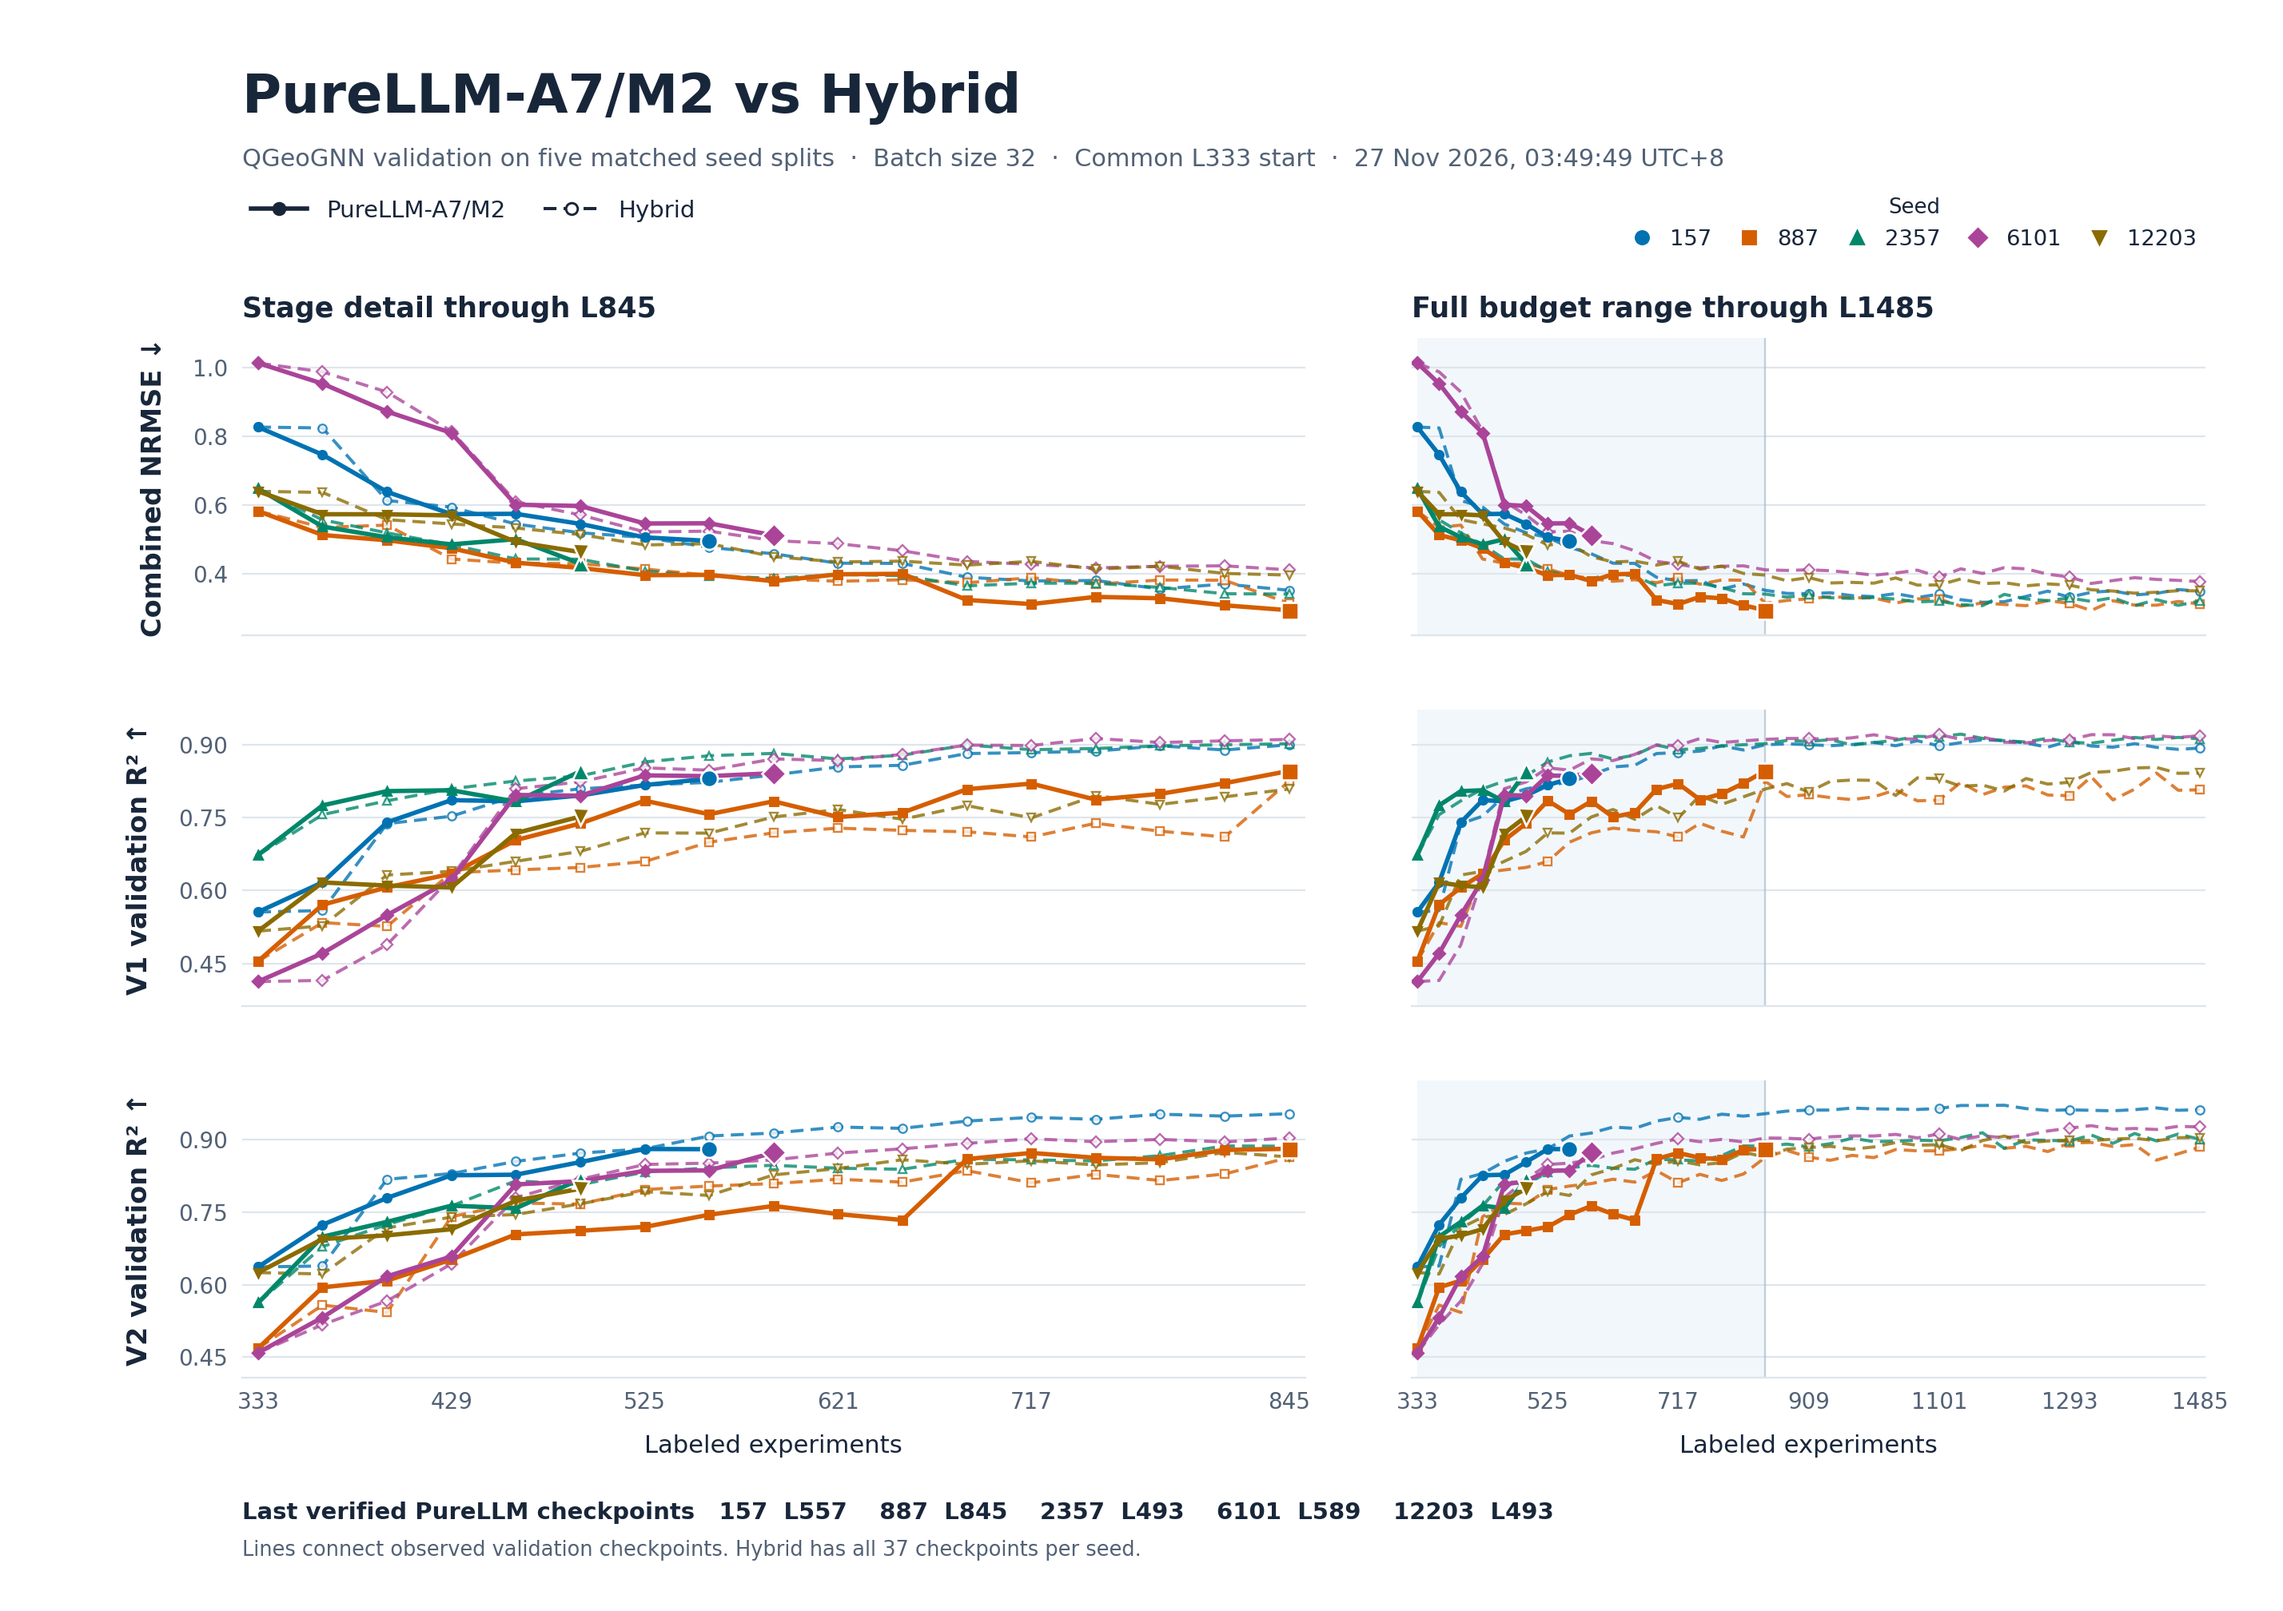
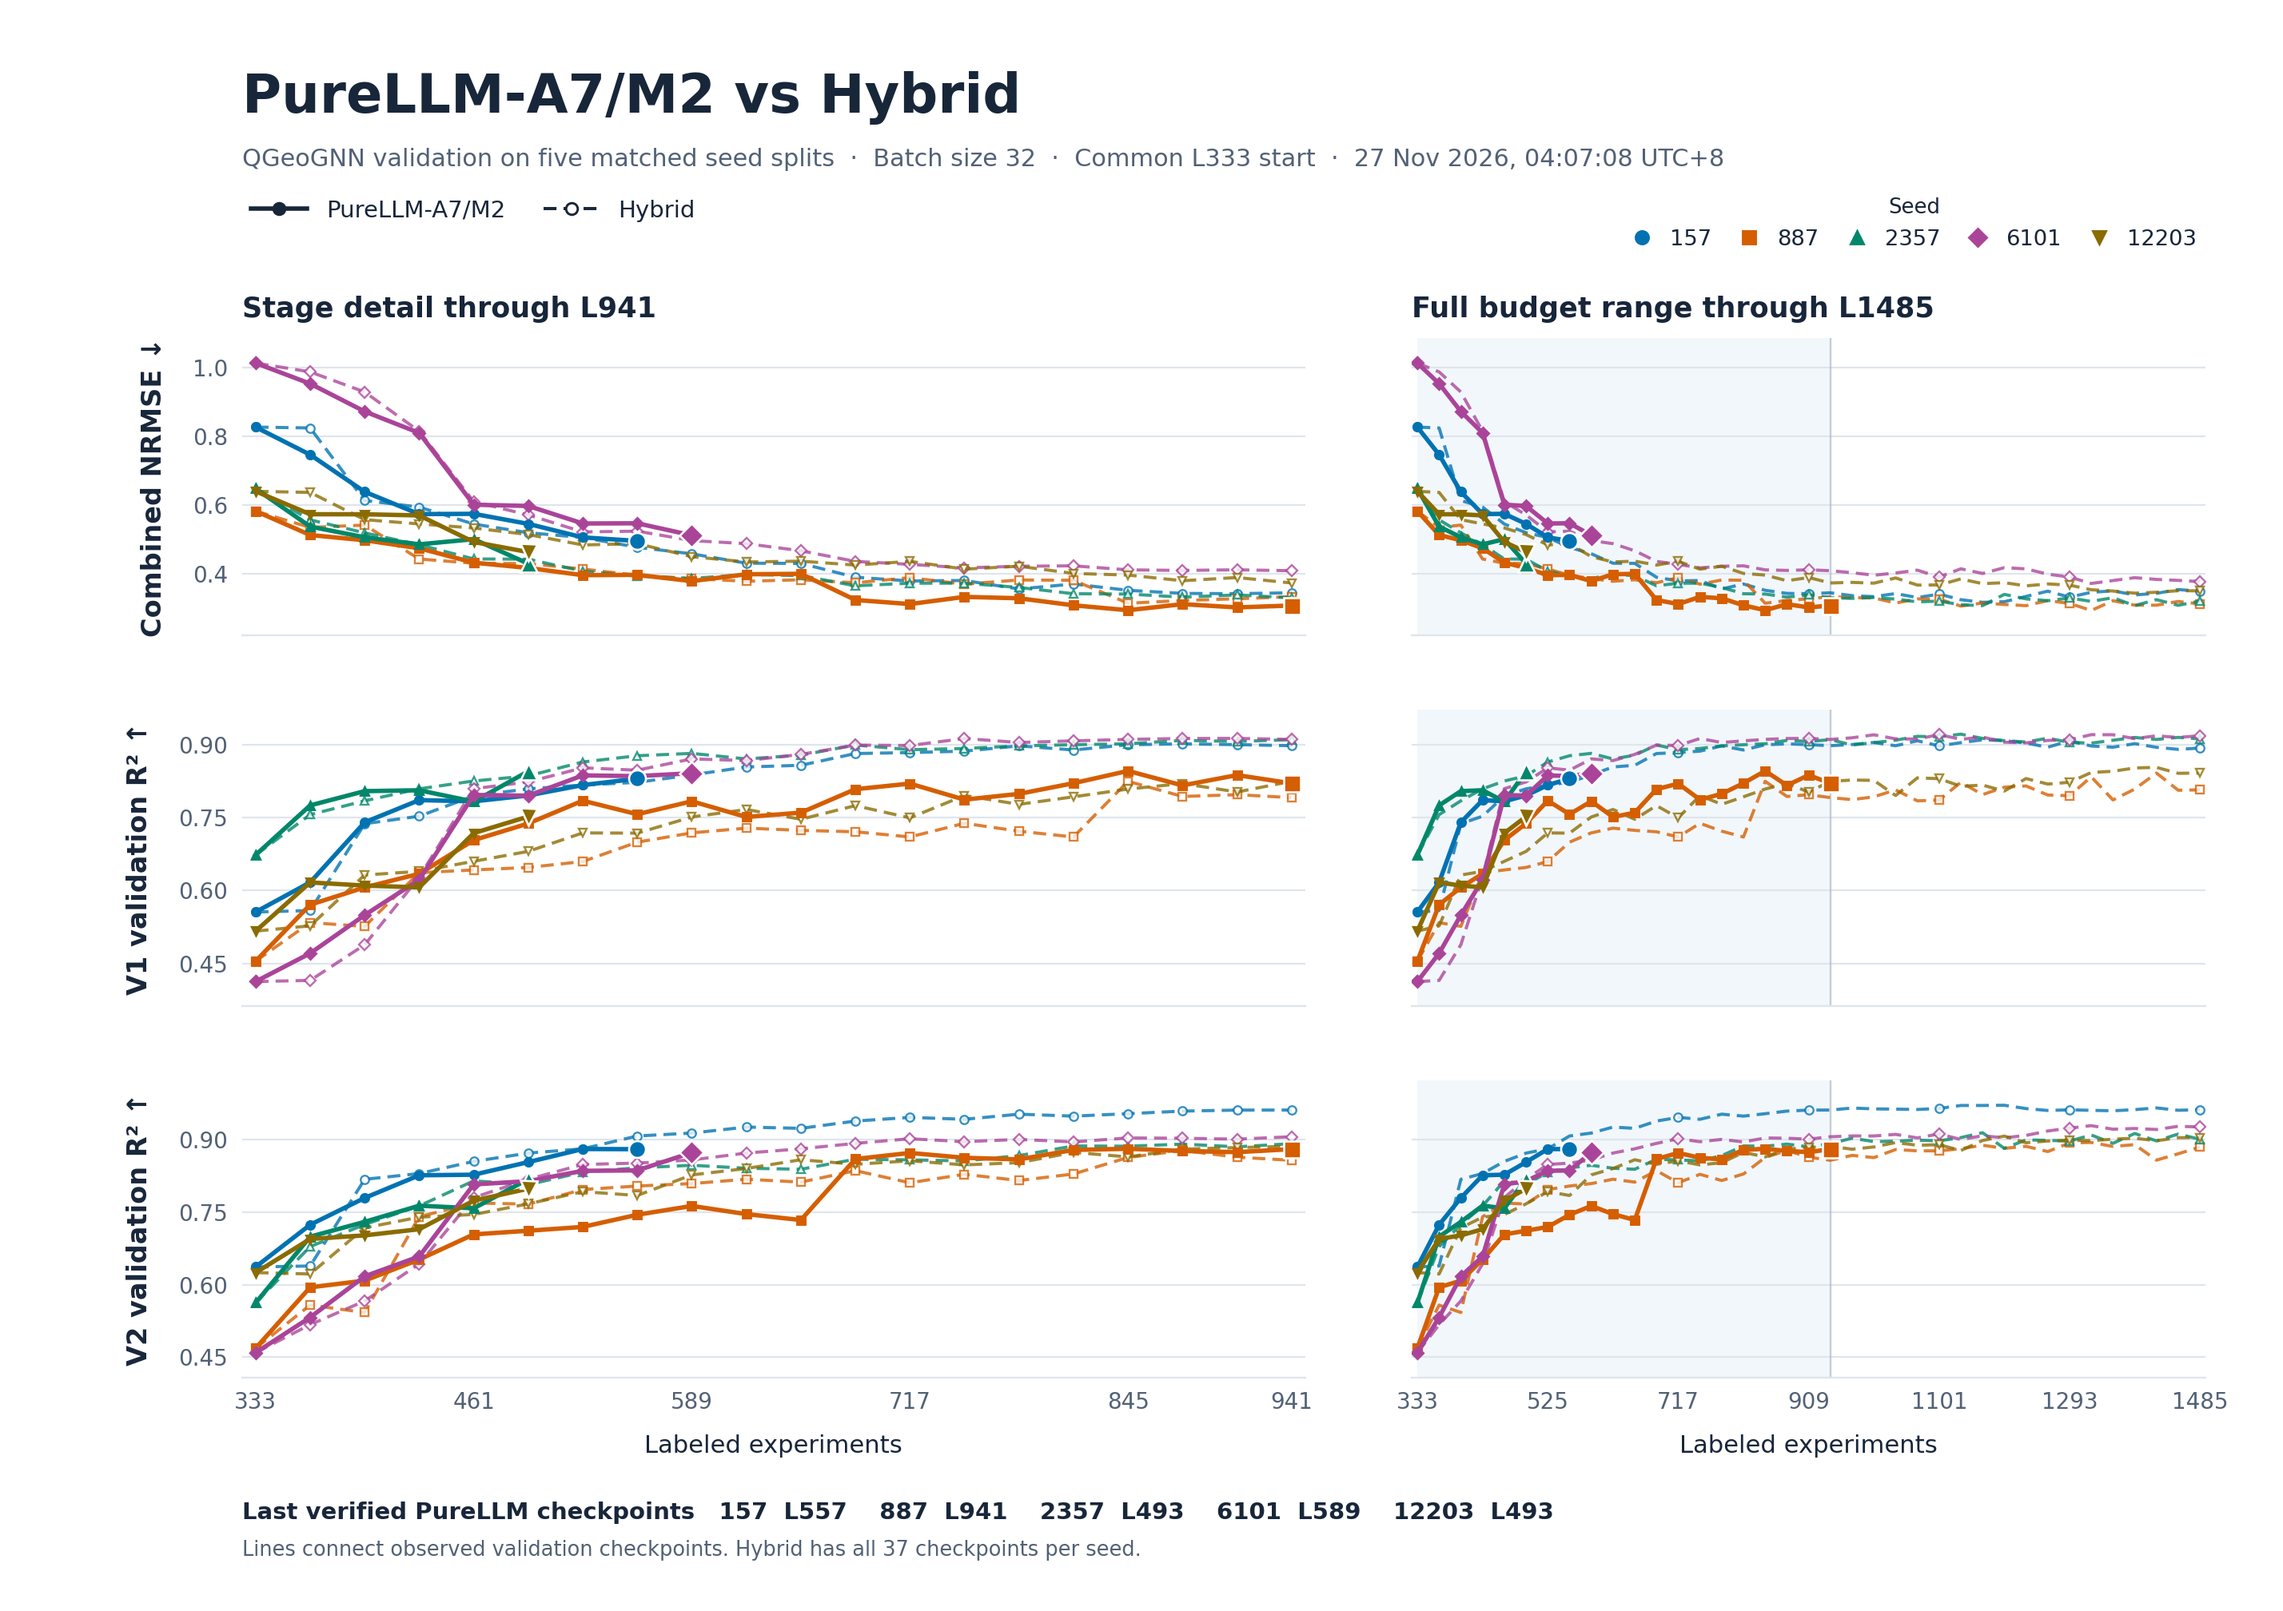
Refresh paired stage comparison through seed 887 L941

diff --git a/reports/purellm_a7_stage_20261126/README.md b/reports/purellm_a7_stage_20261126/README.md
@@ -1,8 +1,8 @@
 # PureLLM-A7/M2 与 Hybrid 五 seed 阶段对比
 
-验证数据快照的核验时间为北京时间 2026 年 11 月 27 日 03:49:49。PureLLM 已完成 41 轮 CUDA 训练，记录了 1,312 条冻结选点及其理由。Hybrid 为正式 CUDA Uncertainty + Diversity Hybrid32，五条轨迹均已到 L1485。
+验证数据快照的核验时间为北京时间 2026 年 11 月 27 日 04:07:08。PureLLM 已完成 44 轮 CUDA 训练，记录了 1,408 条冻结选点及其理由。Hybrid 为正式 CUDA Uncertainty + Diversity Hybrid32，五条轨迹均已到 L1485。
 
-两种方法在每个 seed 上共用同一份 L333 CUDA checkpoint、验证划分和 QGeoGNN 训练协议，每轮新增 32 个实验。图中数值来自各预算选定 checkpoint 的验证记录。左侧放大截至 L845 的阶段性曲线，右侧展示完整预算范围。实线止于各 seed 最后一次已完成的 PureLLM 训练。颜色和标记配对同一个 seed。 [L333 配对核验](paired_l333_anchor_receipts.json) · [Hybrid 正式归档](../eit_cuda_three_methods_20261124/README.md)
+两种方法在每个 seed 上共用同一份 L333 CUDA checkpoint、验证划分和 QGeoGNN 训练协议，每轮新增 32 个实验。图中数值来自各预算选定 checkpoint 的验证记录。左侧放大截至 L941 的阶段性曲线，右侧展示完整预算范围。实线止于各 seed 最后一次已完成的 PureLLM 训练。颜色和标记配对同一个 seed。 [L333 配对核验](paired_l333_anchor_receipts.json) · [Hybrid 正式归档](../eit_cuda_three_methods_20261124/README.md)
 
 ![PureLLM 与 Hybrid 的五 seed 验证曲线](purellm_vs_hybrid_stage.png)
 
@@ -11,7 +11,7 @@
 | Seed | PureLLM 已完成轮次 | 最新预算 | PureLLM 验证 NRMSE | 同预算 Hybrid NRMSE | 差值 |
 |---:|---:|---:|---:|---:|---:|
 | 157 | 7 | L557 | 0.4944 | 0.4759 | +0.0185 |
-| 887 | 16 | L845 | 0.2927 | 0.3130 | -0.0203 |
+| 887 | 19 | L941 | 0.3064 | 0.3320 | -0.0256 |
 | 2357 | 5 | L493 | 0.4282 | 0.4412 | -0.0130 |
 | 6101 | 8 | L589 | 0.5108 | 0.4954 | +0.0154 |
 | 12203 | 5 | L493 | 0.4620 | 0.5130 | -0.0510 |
@@ -24,9 +24,11 @@
 
 887 的 R14 和 R15 首答均通过正式 A7 校验，各冻结了 32 个选点并完成 CUDA 训练。R14 至 L813 的验证 NRMSE 为 **0.3070**，R15 至 L845 为 **0.2927**。两轮的服务商终态均报告 `gpt-6.2-astra / xhigh`。
 
+887 的 R16 经一次付费局部纠错修正了第 26 个选点的对照关系和理由，保留原来的 32 个候选及顺序。R17、R18 首答均通过正式 A7 校验。三轮均已完成训练，最近的 L941 验证 NRMSE 为 **0.3064**。
+
 ## 数据和选点
 
-- [PureLLM 验证指标](purellm_validation_curves.csv) 包含 5 个初始检查点和 41 个后续训练点。`round=0` 对应共享 L333，`acquisition_round=0` 对应首次选点和 L365 训练。 CSV 保留每个指标文件和 checkpoint 的摘要。 [PureLLM 逐文件清单](purellm_export_manifest.json)
+- [PureLLM 验证指标](purellm_validation_curves.csv) 包含 5 个初始检查点和 44 个后续训练点。`round=0` 对应共享 L333，`acquisition_round=0` 对应首次选点和 L365 训练。 CSV 保留每个指标文件和 checkpoint 的摘要。 [PureLLM 逐文件清单](purellm_export_manifest.json)
 - [Hybrid 验证指标](hybrid_validation_curves.csv) 共 185 个检查点。 [来源和校验记录](hybrid_validation_receipts.json)
 - 每个 seed 的 JSONL 每行对应一个已冻结并完成训练的轮次，保留模型给出的理由、引用和选点顺序。 [157](selections/seed_157_accepted_rounds.jsonl) · [887](selections/seed_887_accepted_rounds.jsonl) · [2357](selections/seed_2357_accepted_rounds.jsonl) · [6101](selections/seed_6101_accepted_rounds.jsonl) · [12203](selections/seed_12203_accepted_rounds.jsonl)
 
@@ -35,5 +37,5 @@
 使用 Python 和 Matplotlib 3.10.8，在本目录运行以下命令。
 
 ```bash
-python plot_stage.py --snapshot '27 Nov 2026, 03:49:49 UTC+8'
+python plot_stage.py --snapshot '27 Nov 2026, 04:07:08 UTC+8'
 ```
